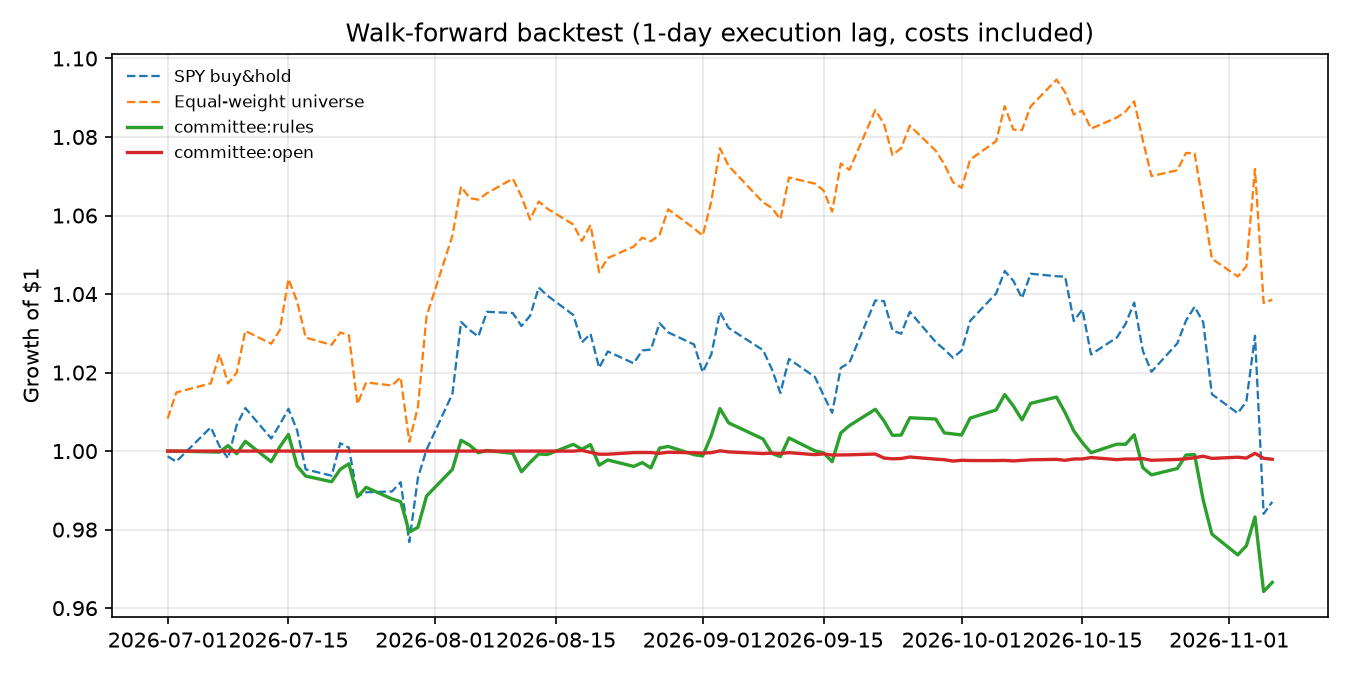
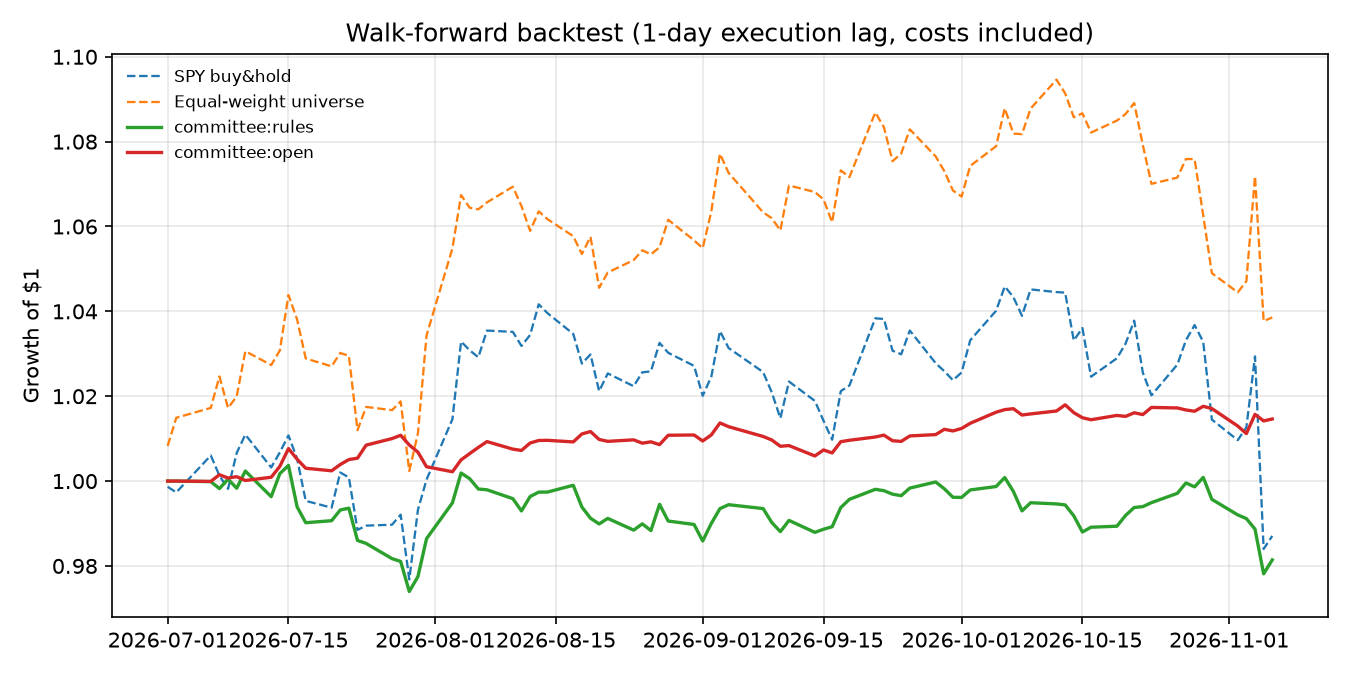
Split scoring from sizing: rank judge outlooks, then size through the risk chain
The first backtest showed the judge holding 227 of 228 times, because bull
and bear always disagree and the prompt preferred HOLD on conflict. The judge
now also gives an outlook on every stock, and the backtest goes long the top
3 outlooks, each through the risk officer, the gate and the sandbox check.

diff --git a/committee/pipeline.py b/committee/pipeline.py
@@ -53,7 +53,7 @@ class Decision:
     otari: dict = field(default_factory=dict)   # which gateway features this decision used
 
     def as_dict(self):
-        return self.__dict__
+        return {k: v for k, v in self.__dict__.items() if not k.startswith("_")}
 
 
 def grounding_check(cited: list[str], inputs: dict) -> tuple[int, int]:
@@ -123,7 +123,7 @@ class Committee:
 
     # ----- decision -----
     def decide(self, ticker: str, as_of: date, current_weight: float = 0.0,
-               portfolio_drawdown: float = 0.0) -> Decision:
+               portfolio_drawdown: float = 0.0, size: bool = True) -> Decision:
         feats = self.build_features(ticker, as_of)
         metrics, sector, returns = feats.pop("_risk"), feats.pop("_sector"), feats.pop("_returns")
         d = Decision(ticker=ticker, as_of=as_of.isoformat(), profile=self.profile.name,
@@ -205,26 +205,43 @@ class Committee:
             except LLMError as exc:
                 d.errors.append(str(exc))
         if judge is None:
-            judge = JudgeDecision(action="HOLD", conviction=0, target_weight=current_weight,
+            # outlook -2 so a failed committee is never ranked into the portfolio
+            judge = JudgeDecision(action="HOLD", outlook=-2, conviction=0, target_weight=current_weight,
                                   thesis="committee failed: fail closed", what_would_change_my_mind="")
         d.judge = judge.model_dump()
 
-        # 4) risk: LLM officer may only cut, then the deterministic gate
+        # 4) risk sizing (the backtest can defer it to rank stocks across the universe first)
+        d._sizing = {"label": label, "metrics": metrics, "returns": returns}
+        if size:
+            self.size(d, judge.action, judge.target_weight, current_weight, portfolio_drawdown)
+        d.grounding = {"cited_ok": g_ok, "cited_unknown": g_bad}
+        d.features["sector"] = sector
+        return d
+
+    def size(self, d: Decision, action: str, proposed_weight: float, current_weight: float = 0.0,
+             portfolio_drawdown: float = 0.0) -> Decision:
+        """LLM risk officer (can only cut), deterministic gate, then the Otari sandbox check."""
+        ctx = d._sizing
+        metrics, returns, label = ctx["metrics"], ctx["returns"], ctx["label"]
+        llm = self.profile.uses_llm
+        cfg = self.client.settings if self.client else None
+        feats = d.features
         llm_cap = None
-        if llm and self.use_risk_officer and judge.action == "BUY":
+        if llm and self.use_risk_officer and action == "BUY":
             try:
-                s, u = risk_messages(label, d.judge, metrics.as_dict(), feats["events"])
+                proposal = {**d.judge, "action": action, "target_weight": proposed_weight}
+                s, u = risk_messages(label, proposal, metrics.as_dict(), feats["events"])
                 ro = self._ask("risk", s, u, RiskOfficerView, d)
                 llm_cap = ro.max_weight
                 d.risk_officer = ro.model_dump()
             except LLMError as exc:
                 d.errors.append(str(exc))
                 llm_cap = 0.0  # no risk sign-off, no new risk
-        rd = gate(judge.target_weight, judge.action, metrics, self.limits, current_weight=current_weight,
+        rd = gate(proposed_weight, action, metrics, self.limits, current_weight=current_weight,
                   portfolio_drawdown=portfolio_drawdown, event_red_flags=feats["events"].get("red_flags"),
                   fundamentals_age_days=feats["fundamental"].get("days_since_last_filing"), llm_cap=llm_cap)
         # independent recompute of VaR/ES in Otari's code sandbox; a mismatch vetoes the trade
-        if llm and cfg.code_check and judge.action == "BUY" and rd.final_weight > 0:
+        if llm and cfg.code_check and action == "BUY" and rd.final_weight > 0:
             try:
                 out = self.client.execute(SANDBOX_CODE.format(returns=json.dumps(returns)), **self._ctx("risk", d))
                 remote = json.loads(out.get("stdout", "").strip().splitlines()[-1])
@@ -240,7 +257,5 @@ class Committee:
                 rd.checks.append({"rule": "otari_sandbox_recompute", "status": "SKIP", "detail": str(exc)[:160]})
         d.risk = rd.as_dict()
         d.final_weight = rd.final_weight
-        d.final_action = judge.action if rd.approved else "VETO"
-        d.grounding = {"cited_ok": g_ok, "cited_unknown": g_bad}
-        d.features["sector"] = sector
+        d.final_action = action if rd.approved else "VETO"
         return d

diff --git a/committee/agents.py b/committee/agents.py
@@ -31,6 +31,8 @@ class DebateTurn(BaseModel):
 
 class JudgeDecision(BaseModel):
     action: Action
+    outlook: float = Field(ge=-2, le=2, description="expected performance vs a typical US large cap over "
+                                                    "the next month, -2 much worse ... +2 much better")
     conviction: float = Field(ge=0, le=1)
     target_weight: float = Field(ge=0, le=1, description="fraction of portfolio for BUY, else 0")
     thesis: Text
@@ -84,7 +86,9 @@ def judge_messages(label: str, views: dict, bull: list[str], bear: list[str], ma
     system = ("You are the portfolio manager chairing the committee. Weigh the analysts and the debate, "
               "then decide BUY (hold or add up to target_weight), HOLD (keep current weight) or SELL "
               f"(exit). Long-only. target_weight must be <= {max_weight:.2f}. Prefer HOLD when evidence "
-              f"conflicts. {GUARDRAIL}")
+              "conflicts. Separately, always give `outlook`: your best estimate of how this stock will do "
+              "versus a typical US large cap over the next month, even when you HOLD. The portfolio is built "
+              f"by ranking outlooks across stocks, so use the full scale. {GUARDRAIL}")
     user = (f"Stock: {label}\nCurrent portfolio weight: {current_weight:.3f}\n"
             f"Analyst views:\n{json.dumps(views, ensure_ascii=False, indent=1)}\n"
             f"Bull: {json.dumps(bull, ensure_ascii=False)}\nBear: {json.dumps(bear, ensure_ascii=False)}")
@@ -135,11 +139,12 @@ def rules_analyst(role: str, f: dict) -> AnalystView:
 def rules_judge(views: dict[str, AnalystView], max_weight: float, current_weight: float) -> JudgeDecision:
     w = {"fundamental": 0.4, "technical": 0.4, "events": 0.2}
     s = sum(w[k] * v.score for k, v in views.items())
+    o = round(_clip(s), 3)
     if s > 0.25:
-        return JudgeDecision(action="BUY", conviction=min(1, s / 2), target_weight=max_weight * min(1, s),
+        return JudgeDecision(action="BUY", outlook=o, conviction=min(1, s / 2), target_weight=max_weight * min(1, s),
                              thesis=f"weighted score {s:+.2f}", what_would_change_my_mind="score below 0")
     if s < -0.25:
-        return JudgeDecision(action="SELL", conviction=min(1, -s / 2), target_weight=0,
+        return JudgeDecision(action="SELL", outlook=o, conviction=min(1, -s / 2), target_weight=0,
                              thesis=f"weighted score {s:+.2f}", what_would_change_my_mind="score above 0")
-    return JudgeDecision(action="HOLD", conviction=0.2, target_weight=current_weight,
+    return JudgeDecision(action="HOLD", outlook=o, conviction=0.2, target_weight=current_weight,
                          thesis=f"weighted score {s:+.2f}", what_would_change_my_mind="|score| > 0.25")

diff --git a/committee/backtest.py b/committee/backtest.py
@@ -31,6 +31,8 @@ class BacktestConfig:
     tc_bps: float = 5.0
     workers: int = 4
     anonymize: bool = True
+    construction: str = "rank"   # rank: long the top_k judge outlooks; judge: follow each BUY/HOLD/SELL
+    top_k: int = 3
 
 
 def rebalance_dates(days: pd.DatetimeIndex) -> list[pd.Timestamp]:
@@ -55,6 +57,9 @@ def perf_metrics(ret: pd.Series) -> dict:
 
 
 def signed_signal(d: Decision) -> float:
+    """The judge's outlook (-2..+2) when it gave one, else its signed conviction."""
+    if d.judge.get("outlook") is not None:
+        return float(d.judge["outlook"])
     c = d.judge.get("conviction", 0)
     return {"BUY": c, "SELL": -c}.get(d.final_action, 0.0)
 
@@ -101,11 +106,24 @@ class Backtester:
             if day in rdates:
                 dd = 1 - equity / peak
 
+                rank = cfg.construction == "rank"
+
                 def one(t, _w=w.copy(), _dd=dd):
-                    return committee.decide(t, day.date(), current_weight=float(_w[t]), portfolio_drawdown=_dd)
+                    return committee.decide(t, day.date(), current_weight=float(_w[t]), portfolio_drawdown=_dd,
+                                            size=not rank)
 
                 with ThreadPoolExecutor(max_workers=cfg.workers) as pool:
                     ds = list(pool.map(one, cfg.universe))
+                    if rank:  # score first, then size: long the best outlooks, out of the rest
+                        ranked = sorted(ds, key=lambda d: d.judge.get("outlook", -2), reverse=True)
+                        picks = {d.ticker for d in ranked[:cfg.top_k] if d.judge.get("outlook", -2) > 0}
+
+                        def sized(d, _w=w.copy(), _dd=dd):
+                            buy = d.ticker in picks
+                            return committee.size(d, "BUY" if buy else "OUT", self.limits.max_weight if buy else 0.0,
+                                                  float(_w[d.ticker]), _dd)
+
+                        ds = list(pool.map(sized, ds))
                 decisions += ds
                 target, notes = apply_portfolio_limits({d.ticker: d.final_weight for d in ds}, self.sectors,
                                                        self.limits)
@@ -151,7 +169,7 @@ class Backtester:
                 "ic_dates": len(ics),
                 "buy_hit_rate": float((buys["fwd_excess"] > 0).mean()) if len(buys) else np.nan,
                 "buy_avg_fwd_excess": float(buys["fwd_excess"].mean()) if len(buys) else np.nan,
-                "n_buy": int(len(buys)), "n_sell": int((df["action"] == "SELL").sum()),
+                "n_buy": int(len(buys)), "n_sell": int(df["action"].isin(["SELL", "OUT"]).sum()),
                 "n_veto": int((df["action"] == "VETO").sum())}
 
 

diff --git a/tests/test_core.py b/tests/test_core.py
@@ -61,7 +61,7 @@ def test_extract_json_handles_fences_and_prose():
 def test_schema_trims_long_lists():
     v = AnalystView.model_validate({"score": 1, "confidence": 0.5, "key_points": list("abcdef"), "cited_fields": []})
     assert len(v.key_points) == 4
-    assert JudgeDecision.model_validate({"action": "buy", "conviction": 0.5, "target_weight": 0.05,
+    assert JudgeDecision.model_validate({"action": "buy", "outlook": 1, "conviction": 0.5, "target_weight": 0.05,
                                          "thesis": "x"}).action == "BUY"
 
 
@@ -244,7 +244,7 @@ LLM = Profile(name="llm", description="", models={"analyst": "a", "debater": "b"
 def _answers(judge_action="BUY", risk_cap=0.02):
     view = GOOD
     turn = json.dumps({"arguments": ["x"], "rebuttal": "", "cited_fields": []})
-    judge = json.dumps({"action": judge_action, "conviction": 0.8, "target_weight": 0.08, "thesis": "t",
+    judge = json.dumps({"action": judge_action, "outlook": 1.5, "conviction": 0.8, "target_weight": 0.08, "thesis": "t",
                         "what_would_change_my_mind": "w"})
     risk = json.dumps({"max_weight": risk_cap, "concerns": ["c"]})
     return {"a": [view] * 3, "b": [turn, turn], "j": [judge], "r": [risk]}
@@ -285,3 +285,22 @@ def test_json_mode_is_dropped_for_models_that_refuse_it():
     assert _ask(client, ["m1"]).score == 1
     _ask(client, ["m1"])  # second call goes straight to plain mode
     assert sum("response_format" in c for c in calls) == 1
+
+
+def test_scoring_and_sizing_can_be_split():
+    c = Committee(RULES, FakeData())
+    d = c.decide("AAA", AS_OF, size=False)
+    assert d.risk == {} and "outlook" in d.judge
+    c.size(d, "BUY", 0.10)
+    assert d.risk["checks"] and 0 < d.final_weight <= RiskLimits().max_weight
+    c.size(d, "OUT", 0.0, current_weight=0.05)
+    assert d.final_weight == 0 and d.final_action == "OUT"
+    assert "_sizing" not in d.as_dict()
+
+
+def test_failed_judge_is_never_ranked_in():
+    ans = _answers()
+    ans["j"] = [RuntimeError("down")]
+    client, _ = make_client(ans)
+    d = Committee(LLM, FakeData(), client).decide("AAA", AS_OF, size=False)
+    assert d.judge["outlook"] == -2

diff --git a/committee/__main__.py b/committee/__main__.py
@@ -87,7 +87,7 @@ def cmd_backtest(a):
                   f"{'is on' if not a.no_anonymize else 'is OFF'}.")
     data = MarketData(start=(start - timedelta(days=420)).isoformat(), end=(end + timedelta(days=10)).isoformat())
     bt = Backtester(BacktestConfig(universe, start, end, tc_bps=a.tc_bps, workers=a.workers,
-                                   anonymize=not a.no_anonymize), data)
+                                   anonymize=not a.no_anonymize, construction=a.construction, top_k=a.top_k), data)
     n = bt.n_decisions()
     llm_names = [x for x in names if profiles[x].uses_llm]
     calls = n * 7 * len(llm_names)
@@ -102,7 +102,8 @@ def cmd_backtest(a):
     out = ROOT / "runs" / run_id
     table = write_run(out, bt, results, ledger, {"run_id": run_id, "universe": universe, "start": start, "end": end,
                                                  "profiles": names, "anonymize": not a.no_anonymize,
-                                                 "tc_bps": a.tc_bps})
+                                                 "tc_bps": a.tc_bps, "construction": a.construction,
+                                                 "top_k": a.top_k})
     from .report import write_report
     write_report(out)
     cols = [c for c in ["total_return", "sharpe", "max_drawdown", "mean_ic", "buy_hit_rate", "llm_cost_usd",
@@ -137,6 +138,9 @@ def main(argv=None):
     s.add_argument("--tc-bps", type=float, default=5.0)
     s.add_argument("--workers", type=int, default=4)
     s.add_argument("--no-anonymize", action="store_true")
+    s.add_argument("--construction", choices=["rank", "judge"], default="rank",
+                   help="rank: long the top-k judge outlooks each week; judge: follow each BUY/HOLD/SELL")
+    s.add_argument("--top-k", type=int, default=3)
     s.add_argument("--run-id")
     s.add_argument("--yes", action="store_true")
     s.set_defaults(fn=cmd_backtest)

diff --git a/app.py b/app.py
@@ -41,7 +41,8 @@ with live:
 
         badge = {"BUY": "🟢", "SELL": "🔴", "HOLD": "⚪", "VETO": "⛔"}[d.final_action]
         st.subheader(f"{badge} {d.final_action}  ·  final weight {d.final_weight:.2%}")
-        st.write(f"**Judge:** {d.judge['action']} (conviction {d.judge['conviction']:.2f}, proposed "
+        st.write(f"**Judge:** {d.judge['action']} (outlook {d.judge.get('outlook', 0):+.1f} on -2..+2, "
+                 f"conviction {d.judge['conviction']:.2f}, proposed "
                  f"{d.judge['target_weight']:.1%}). {d.judge['thesis']}")
         if d.judge.get("what_would_change_my_mind"):
             st.caption(f"What would change my mind: {d.judge['what_would_change_my_mind']}")
@@ -112,6 +113,7 @@ with past:
             f = st.selectbox("Decision log", [x.name for x in files])
             rows = [json.loads(l) for l in (rd / f).read_text().splitlines()]
             df = pd.DataFrame([{"date": r["as_of"], "ticker": r["ticker"], "action": r["final_action"],
+                                "outlook": r["judge"].get("outlook"),
                                 "weight": r["final_weight"], "judge": r["judge"].get("thesis", "")[:120],
                                 "errors": len(r["errors"])} for r in rows])
             st.dataframe(df, width="stretch", hide_index=True)

diff --git a/committee/report.py b/committee/report.py
@@ -43,7 +43,8 @@ def write_report(run_dir: Path) -> Path:
     md = [f"# Backtest {meta['run_id']}",
           f"Universe: {', '.join(meta['universe'])}  \nWindow: {meta['start']} to {meta['end']}, weekly decisions, "
           f"one-day execution lag, {meta['tc_bps']} bps per unit of turnover, cash earns 0.  \n"
-          f"Prompts anonymized: {meta['anonymize']}.",
+          f"Prompts anonymized: {meta['anonymize']}. Construction: {meta.get('construction', 'judge')}"
+          + (f" (long the top {meta.get('top_k')} judge outlooks each week)" if meta.get('construction') == 'rank' else "") + ".",
           "## Performance", table(perf), ""]
     if committees and sig:
         md += ["## Signal quality (forward excess return over SPY to next rebalance)", table(sig, committees), ""]

diff --git a/README.md b/README.md
@@ -15,7 +15,7 @@ uses **only open-weight models, from four labs, one per job**:
 | Risk officer | Qwen 3.8 Flash (Mistral Small 4) | can only cut size |
 
 A decision costs about **$0.004 in model calls** (6 calls, about 9k tokens, from Otari's inline
-`usage.cost_usd`). Live mode adds **$0.01 for the 8-K web fetch**, which the client reads back from
+`usage.cost_usd`). A BUY adds $0.01 for the sandbox VaR/ES check. Live mode adds **$0.01 for the 8-K web fetch**, which the client reads back from
 `GET /usage/requests/{id}`, so the ledger matches Otari's to the micro-dollar. Backtests are
 anonymized and skip the fetch.
 
@@ -114,31 +114,44 @@ LLM backtests usually leak the future. This one closes four leaks:
 - **Signal quality:** the cross-sectional rank IC between the committee's signed conviction and next-week excess return over SPY, with its t-stat, and the BUY hit rate.
 - **Cost and reliability:** LLM calls, dollars, cost per decision, failed calls, fallbacks, and how many cited input fields don't exist (a hallucination check).
 
-Run `submission`: 12 large caps, weekly, 2026-07-01 to 2026-11-06, anonymized prompts, 5 bps costs.
+12 large caps, weekly decisions from 2026-07-01 to 2026-11-06, anonymized prompts, one-day
+execution lag, 5 bps costs. The committee scores every stock, then the portfolio goes long the
+**top 3 judge outlooks** (outlook > 0). Each pick passes the LLM risk officer, the deterministic
+gate and the Otari sandbox check. The no-LLM baseline uses the same construction on its rules scores.
 
 | | SPY | Equal weight | committee: rules (no LLM) | committee: open (LLM) |
 |---|---|---|---|---|
-| Total return | -1.29% | 3.86% | -3.35% | -0.21% |
-| Max drawdown | -5.92% | -5.20% | -4.94% | -0.27% |
-| Average gross exposure | – | – | 48.0% | 1.9% |
-| Judge decisions (buy / hold / sell) | – | – | 147 / 61 / 20 | 1 / 227 / 0 |
-| IC of the mean analyst score (t-stat) | – | – | -0.049 (-0.66) | +0.038 (+0.57) |
-| LLM calls / failed / repaired | – | – | 0 | 1,370 / 0 / 0 |
-| Cost per decision | – | – | $0 | $0.0031 |
+| Total return | -1.29% | 3.86% | -1.86% | **+1.46%** |
+| Sharpe | -0.20 | 0.87 | -0.91 | **1.64** |
+| Max drawdown | -5.92% | -5.20% | -2.96% | **-0.85%** |
+| Average gross exposure | 100% | 100% | 24.6% | 15.0% |
+| BUY hit rate (beat SPY the next week) | – | – | 52.9% | **60.8%** |
+| IC of judge outlook (t-stat) | – | – | -0.04 (-0.48) | +0.04 (+0.44) |
+| LLM calls / failed | – | – | 0 | 1,481 / 0 |
+| Otari sandbox VaR/ES checks | – | – | – | 56 run, 56 PASS |
+| Cost per decision | – | – | $0 | $0.0046 |
 
 ![equity](docs/equity.png)
 
 What this says, honestly:
 
-- **The plumbing holds up.** 1,370 calls through Otari routing had no failures, no repairs and
-  no citations of input fields that don't exist. A full 228-decision run cost $0.72.
-- **The LLM analysts point the right way, but not significantly.** Their mean score has a
-  positive cross-sectional IC, while the rules baseline fed the same features has a negative
-  one. Neither is significant over 18 weeks.
-- **The debate makes the committee inert.** Bull and bear always produce conflicting evidence,
-  and the judge was told to prefer HOLD when evidence conflicts. So it held 227 of 228 times.
-  That is a real design lesson for adversarial-debate agents: the debate needs a decision rule
-  that does not reward indecision.
+- **The plumbing holds up.** 1,481 calls through Otari had no failures, no repairs, and no
+  citations of input fields that don't exist. The whole run cost $1.04: the judge $0.46,
+  sandbox checks $0.56 at $0.01 each, and the risk officer $0.03. The analysts and the debate
+  were cached from the first run.
+- **The LLM committee ranks a little better than rules on the same features**: a positive IC
+  and a 61% hit rate on its picks, against a negative IC and 53% for rules. It ran at low
+  exposure, because the LLM risk officer cut every pick (57 cuts, and one full veto on a stock
+  whose data it found implausible). **None of this is statistically significant**: an IC
+  t-stat of 0.44 over 18 weeks is noise-level. Read it as a working, auditable pipeline, not
+  as alpha.
+- **A design lesson along the way.** In the first run (`--construction judge`), the judge
+  followed its own BUY/HOLD/SELL, and its prompt said "prefer HOLD when evidence conflicts".
+  Bull and bear always produce conflicting evidence, so it held 227 of 228 times and the
+  portfolio stayed in cash (-0.21%, 1.9% average exposure). Separating *scoring* (an outlook
+  on every stock) from *sizing* (ranking and risk) fixed that. This is the standard quant
+  split, and the change was made for that reason, not tuned on returns. Both runs can be
+  reproduced with `--construction judge|rank`.
 
 ## Layout
 

diff --git a/docs/otari_evidence.md b/docs/otari_evidence.md
@@ -9,7 +9,7 @@ The request ids are Otari's own `Otari-Request-ID` values. Keys are never shown.
 | Model routing and fallbacks | same | Each call names a routing policy (`committee-analyst`, `committee-debater`, `committee-judge`, `committee-risk`). `Otari-Model` gives the serving model and `Otari-Attempt-Count` and `Otari-Fallback` are logged per call. A client-side chain behind each policy covers a gateway-level `invalid_model` or outage (unit-tested: `test_client_falls_back_down_the_chain`) |
 | Budgets and spending limits | `JUDGE_BUDGET_FLOOR_USD=5 python -m committee analyze HD --profile open` | The judge has its own key with a $2/day budget. `GET /key/budget` returned `remaining_usd: 2.0`. With remaining budget below the floor, the decision recorded `judge_tiered_down_to: alibaba/qwen3.8-flash` and completed without errors. The judge's remaining budget fell to $1.9995 and then $1.9975 as decisions ran, so judge spend lands on the judge's key |
 | Per-user budgets | `python -m committee analyze PG --profile otari --user desk:alice` and `... GOOGL ... --user desk:bob` | `GET /end-users` on the service key lists `desk:alice` (spend $0.013962) and `desk:bob` (spend $0.014065), both on `desk-budget` ($0.50/day), not blocked |
-| Code execution | before any BUY, and as a probe on NVDA | `POST /code/execute` (request `1d5014ee-0852-4528-a90c-56802ecadc71`) recomputed 1-day historical VaR95 4.1642% and ES97.5 5.7979% from 252 returns. Both match the local values to within 1e-9, so the gate check `otari_sandbox_recompute` is PASS |
+| Code execution | before any BUY, and as a probe on NVDA | `POST /code/execute` (request `1d5014ee-0852-4528-a90c-56802ecadc71`) recomputed 1-day historical VaR95 4.1642% and ES97.5 5.7979% from 252 returns. Both match the local values to within 1e-9, so the gate check `otari_sandbox_recompute` is PASS. In the `submission-v2` backtest it ran on every one of the 56 picks: 56 PASS, $0.01 each |
 | Web fetch | `OTARI_WEB_FETCH=1 python -m committee analyze AAPL --profile open` | `POST /fetch` (`builtin_fetch`, request `61ac91e4-6a53-42b5-a5a7-79b9014e7ef4`) read Apple's 8-K of 2026-11-05. The events analyst cited the Item 8.01 note issuance. `GET /usage/requests/{id}` shows the fetch was billed $0.010000, and the client writes that into its ledger |
 | Spend attribution | every call | `metadata` tags (role, profile, run, ticker, end_user), one `Otari-Conversation-Id` per decision, and inline `usage.cost_usd` per call |
 

diff --git a/docs/demo_notes.md b/docs/demo_notes.md
@@ -30,7 +30,9 @@ Before recording:
 - **Activity / Sessions**: one session per decision, spend grouped by the `role` tag.
 
 ## 4. Does it work? (3:00–4:00), Streamlit tab "Backtest results"
-- Run `submission`: weekly decisions, Jul–Nov 2026, 12 large caps.
+- Run `submission-v2`: weekly decisions, Jul–Nov 2026, 12 large caps, long the top 3 judge outlooks.
+- v1 lesson: the judge held 227 of 228 times because the debate always conflicts. The fix was to split scoring from sizing.
+- 56 sandbox checks, all PASS. The risk officer cut every pick and vetoed CVX on suspicious data.
 - **Prompts anonymized**: no ticker, no date, so the model cannot recall the future.
 - Fundamentals come from **SEC filings cut at their filing date**.
 - Compare `open` with the **no-LLM rules baseline** on IC, hit rate and cost per decision.
